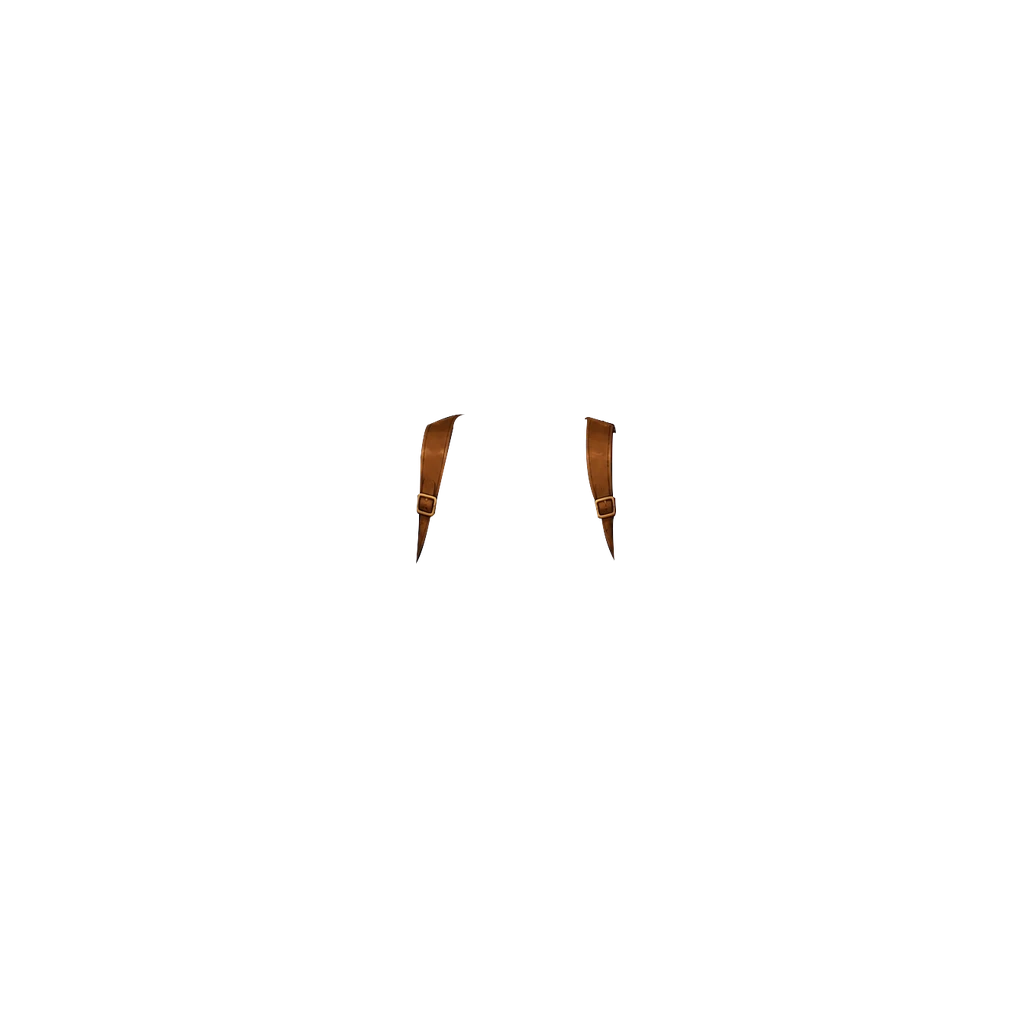
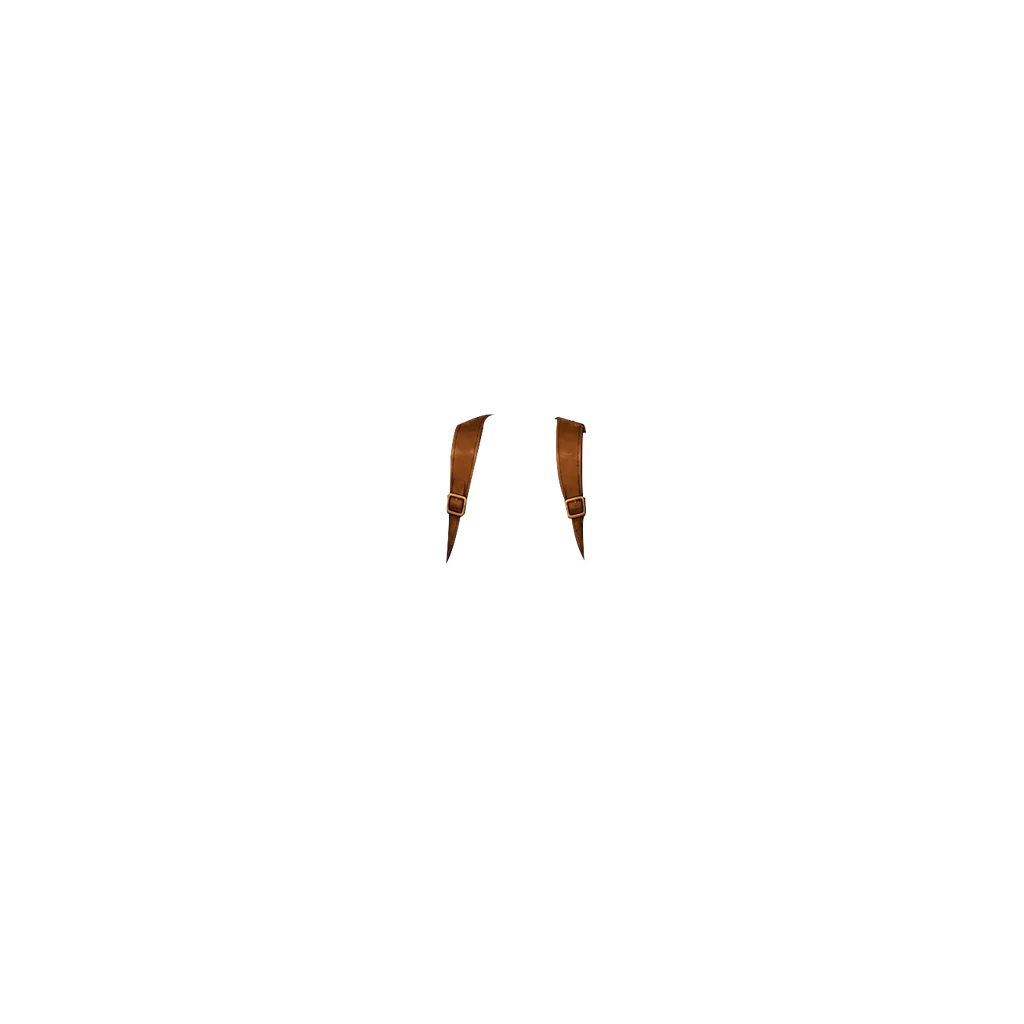
남아 가방 이름 해적 가방으로, 끈·가방 위치 조정 (#917)
왼쪽 끈 오른쪽 30·오른쪽 끈 왼쪽 30, 가방 위로 20·오른쪽 10. 테마 pirate, 이모지 해적기. img·imgFront ?v=2(id 그대로).

Claude-Session: https://claude.ai/code/session_018maNuYqDfFyRSe9uKpZhPR

Changed region(s): [[0.5312, 0.4062, 0.625, 0.5312], [0.4062, 0.4062, 0.4688, 0.5625]]

diff --git a/src/data/avatarEquipment.js b/src/data/avatarEquipment.js
@@ -475,11 +475,13 @@ export const AVATAR_CATALOG = [
   /* 로켓 가방 — 원화가 어깨 너머로 들여다본 모습이라, 몸통에 가려지는 부분은 버리고
      실루엣 밖으로 삐져나온 로켓 덩어리만 오려 냈다(등 슬롯 기본 z15 그대로 — 몸통 뒤에서
      튀어나온 부분만 보이면 되므로 앞으로 끌어올 필요가 없었다). */
-  /* 탐험 가방 [2026-10-05] — 남아. 갈색 가죽 배낭 + 지도 두루마리(사용자 원화 290×373) · 어깨끈(사용자 원화 263×198).
+  /* 해적 가방(처음 이름 탐험 가방) [2026-10-05] — 남아. 갈색 가죽 배낭 + 지도 두루마리(사용자 원화 290×373) · 어깨끈(사용자 원화 263×198).
      한 아이템이 몸 앞뒤로 나뉜다 — 가방 몸통(img)은 등 장비 기본 z15 로 몸 뒤에, 어깨끈(imgFront)은 zFront 48 로
      옷·목 장식 위(모자 50 아래)에 그린다. 끈은 배율 0.76·가운데 x516·위끝 y414(어깨 윗선), 가방은 배율 0.70·원점 (505,350)
-     으로 오른쪽 어깨 뒤에서 가방과 두루마리가 보이게 했다. 끈 상자 (416,414,616,564) · 가방 상자 (505,350,708,611). */
-  { id: "back_explorer",  slot: "back",  label: "탐험 가방",    emoji: "🎒", price:DECOR_PRICE.rare, rarity: "rare", theme: "adventure", forGender: "boy", img: "assets/avatar/back/explorer-pack-boy.webp", imgFront: "assets/avatar/back/explorer-pack-straps-boy.webp", zFront: 48, thumb: "assets/avatar/thumb/back_explorer.webp" },
+     으로 오른쪽 어깨 뒤에서 가방과 두루마리가 보이게 했다. 끈 상자 (416,414,616,564) · 가방 상자 (505,350,708,611).
+     [2026-10-05] 이름 탐험 가방 → 해적 가방(id 그대로). 사용자 조정 — 왼쪽 끈 오른쪽으로 30·오른쪽 끈 왼쪽으로 30,
+     가방 위로 20·오른쪽으로 10(원점 (515,330)). 끈 상자 (446,414,586,564) · 가방 상자 (515,330,718,591). img·imgFront ?v=2. */
+  { id: "back_explorer",  slot: "back",  label: "해적 가방",    emoji: "🏴☠", price:DECOR_PRICE.rare, rarity: "rare", theme: "pirate", forGender: "boy", img: "assets/avatar/back/explorer-pack-boy.webp?v=2", imgFront: "assets/avatar/back/explorer-pack-straps-boy.webp?v=2", zFront: 48, thumb: "assets/avatar/thumb/back_explorer.webp" },
   { id: "back_rocket",    slot: "back",  label: "로켓 가방",    emoji: "🚀", price:DECOR_PRICE.rare, rarity: "rare", theme: "space", forGender: "boy", img: "assets/avatar/back/rocket-pack-boy.webp", thumb: "assets/avatar/thumb/back_rocket.webp" },
   /* 우주 부츠 — 우주복 바지 밑단(y1425 근처)에 발목깃이 물리게 맞췄다. */
   /* [2026-10-03] 새 원화로 교체 — 남색·흰 우주 부츠(하늘색 띠·주황 탭) 두 짝, 사용자 원화 352×173. 위 탑재값은 옛 판 기록.

diff --git a/art-src/README.md b/art-src/README.md
@@ -622,4 +622,4 @@ bbox로 여백만 잘라내고 배포본은 높이 480px로 축소했다(전부 
 | swim-goggles-boy-src.webp | **물안경 원화 남아 (사용자 원화 2026-10-05)** — 366×154 투명 배경, 하늘색 물안경 + 렌즈 안 눈 그림. 첫 얼굴 장식. 렌즈 속 눈을 기본 머리 눈에 템플릿 매칭(일치 0.915)해 배율 0.670·원점 (392,255). 탑재 상자 (392,255,637,358). 상점 그림은 원화를 세로 160px 로 | avatar/face/swim-goggles-boy.webp · thumb/face_goggles_boy.webp |
 | acorn-hat-boy-src.webp | **도토리 모자 원화 남아 — 모자+얼굴 한 장 (사용자 원화 2026-10-05)** — 갈색 도토리 비니(새싹 꼭지). hidesHead 로 기본 머리를 대신한다. 얼굴 템플릿 매칭(일치 0.893)으로 배율 0.672·원점 (341,46), y404 아래 자름. 탑재 상자 (342,46,690,397). **[2026-10-05 조정]** 3% 크게(0.6922, 원점 (336,36)) · img ?v=2. 아래로 2(원점 (336,38)) · img ?v=3. 상점 그림은 원화를 세로 160px 로 | avatar/hat/acorn-hat-boy.webp · thumb/hat_acorn_boy.webp |
 | captain-hat-boy-src.webp | **꼬마선장 모자 원화 남아 — 모자+얼굴 한 장 (사용자 원화 2026-10-05)** — 파란 선장 모자(흰 띠·닻 배지). hidesHead 로 기본 머리를 대신한다. 얼굴 템플릿 매칭(일치 0.907)으로 배율 0.684·원점 (336,70), y404 아래 자름. 탑재 상자 (336,70,694,394). **[2026-10-05 조정]** 3% 크게(0.7045, 원점 (331,60)) · img ?v=2. 아래로 5·왼쪽 1(원점 (330,65)) · img ?v=3. 왼쪽 1·아래로 2 더(원점 (329,67)) · img ?v=4. 상점 그림은 원화를 세로 160px 로 | avatar/hat/captain-hat-boy.webp · thumb/hat_captain_boy.webp |
-| explorer-pack-boy-src.webp · explorer-pack-straps-boy-src.webp | **탐험 가방 원화 남아 (사용자 원화 2026-10-05)** — 가방 몸통 290×373(가죽 배낭+지도 두루마리)·어깨끈 263×198, 투명 배경. 가방은 몸 뒤(z15) 배율 0.70·원점 (505,350), 끈은 옷 위(zFront 48) 배율 0.76·가운데 x516·위끝 y414. 가방 상자 (505,350,708,611) · 끈 상자 (416,414,616,564). 상점 그림은 가방 원화를 세로 160px 로 | avatar/back/explorer-pack-boy.webp · explorer-pack-straps-boy.webp · thumb/back_explorer.webp |
+| explorer-pack-boy-src.webp · explorer-pack-straps-boy-src.webp | **해적 가방 원화 남아(처음 이름 탐험 가방) (사용자 원화 2026-10-05)** — 가방 몸통 290×373(가죽 배낭+지도 두루마리)·어깨끈 263×198, 투명 배경. 가방은 몸 뒤(z15) 배율 0.70·원점 (505,350), 끈은 옷 위(zFront 48) 배율 0.76·가운데 x516·위끝 y414. 가방 상자 (505,350,708,611) · 끈 상자 (416,414,616,564). **[2026-10-05 조정]** 왼쪽 끈 →30·오른쪽 끈 ←30, 가방 위로 20·오른쪽 10(원점 (515,330)), 끈 상자 (446,414,586,564) · 가방 상자 (515,330,718,591) · ?v=2. 상점 그림은 가방 원화를 세로 160px 로 | avatar/back/explorer-pack-boy.webp · explorer-pack-straps-boy.webp · thumb/back_explorer.webp |
